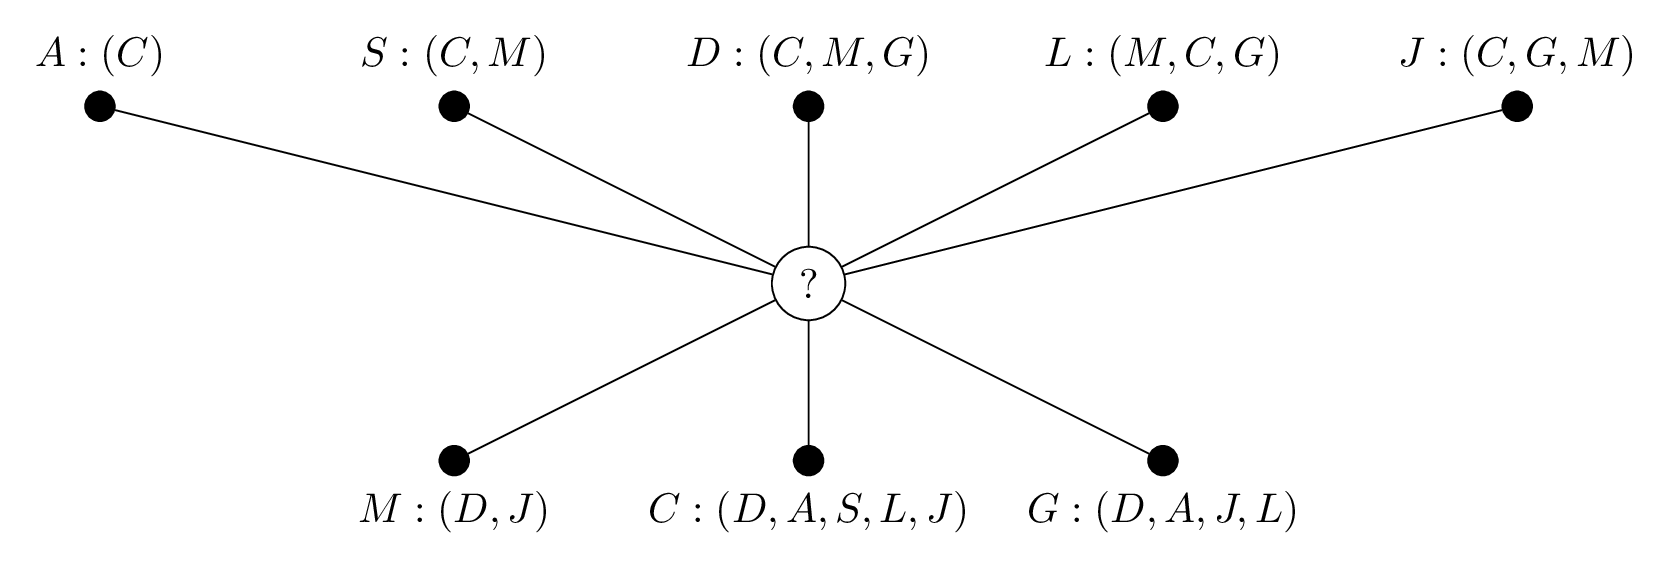
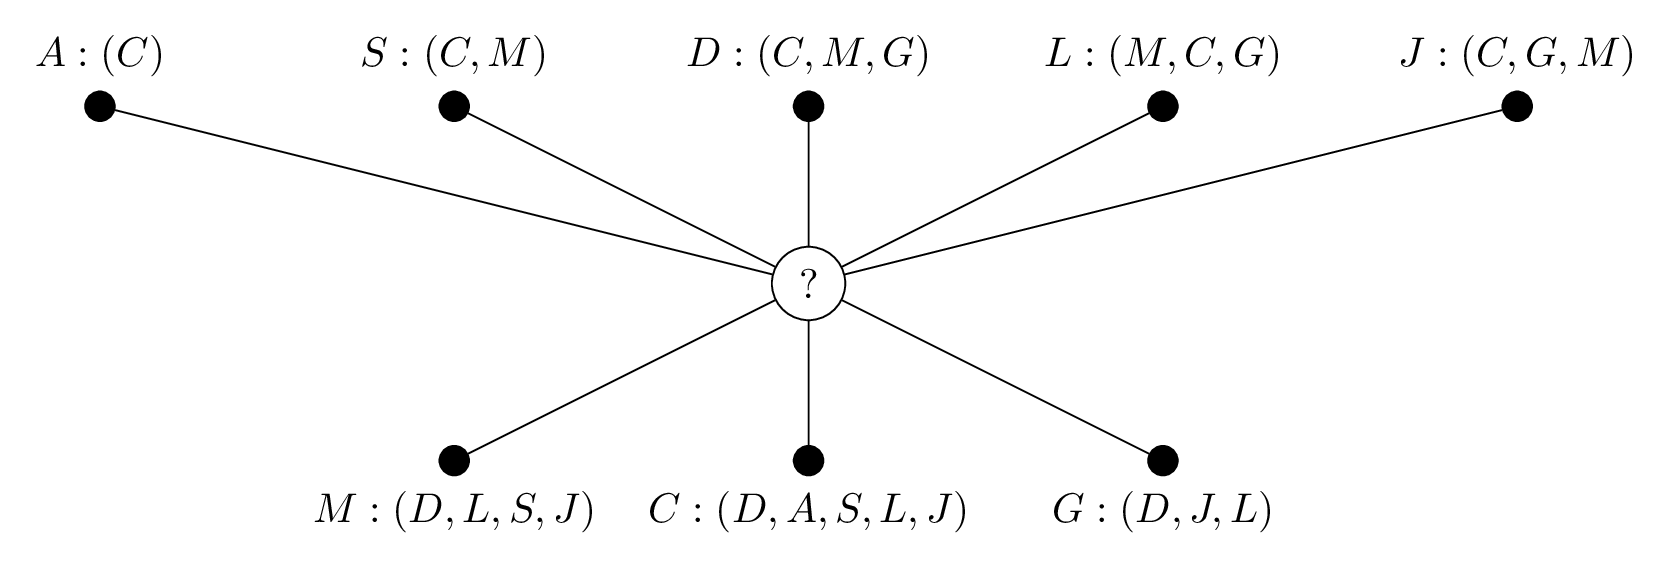
Add example tests (#72)
* Add example tests for SM.

* Add example test and fix example in README for HR.

* Update PNG file.

* Add SA examples.

* Format codebase with Black.

* Format imports with isort.

* Fix docstring for SM example test.

Changed region(s): [[0.1867, 0.8695, 0.3734, 0.9295], [0.6224, 0.8695, 0.778, 0.9295]]

diff --git a/tests/stable_marriage/test_examples.py b/tests/stable_marriage/test_examples.py
@@ -1,0 +1,64 @@
+""" A collection of example tests. """
+
+from matching import Player
+from matching.games import stable_marriage
+
+
+def test_pride_and_prejudice():
+    """ Verify that the matching found is consistent with the one adapted from
+    Jane Austen's Pride and Prejudice. Also used in
+    `docs/discussion/stable_marriage/example.rst`. """
+
+    suitors = [
+        Player(name="Bingley"),
+        Player(name="Collins"),
+        Player(name="Darcy"),
+        Player(name="Wickham"),
+    ]
+
+    reviewers = [
+        Player(name="Charlotte"),
+        Player(name="Elizabeth"),
+        Player(name="Jane"),
+        Player(name="Lydia"),
+    ]
+
+    bingley, collins, darcy, wickham = suitors
+    charlotte, elizabeth, jane, lydia = reviewers
+
+    bingley.set_prefs([jane, elizabeth, lydia, charlotte])
+    collins.set_prefs([jane, elizabeth, lydia, charlotte])
+    darcy.set_prefs([elizabeth, jane, charlotte, lydia])
+    wickham.set_prefs([lydia, jane, elizabeth, charlotte])
+
+    charlotte.set_prefs([bingley, darcy, collins, wickham])
+    elizabeth.set_prefs([wickham, darcy, bingley, collins])
+    jane.set_prefs([bingley, wickham, darcy, collins])
+    lydia.set_prefs([bingley, wickham, darcy, collins])
+
+    matching = stable_marriage(suitors, reviewers)
+    assert matching == {
+        bingley: jane,
+        collins: charlotte,
+        darcy: elizabeth,
+        wickham: lydia,
+    }
+
+
+def test_readme_example():
+    """ Verify the example used in the repo README. """
+
+    suitors = [Player(name="A"), Player(name="B"), Player(name="C")]
+    reviewers = [Player(name="D"), Player(name="E"), Player(name="F")]
+    (A, B, C), (D, E, F) = suitors, reviewers
+
+    A.set_prefs([D, E, F])
+    B.set_prefs([D, F, E])
+    C.set_prefs([F, D, E])
+
+    D.set_prefs([B, C, A])
+    E.set_prefs([A, C, B])
+    F.set_prefs([C, B, A])
+
+    matching = stable_marriage(suitors, reviewers)
+    assert matching == {A: E, B: D, C: F}

diff --git a/tests/hospital_resident/test_examples.py b/tests/hospital_resident/test_examples.py
@@ -1,0 +1,61 @@
+""" A collection of example tests. """
+
+from matching import Player as Resident
+from matching.games import HospitalResident, hospital_resident
+from matching.players import Hospital
+
+
+def test_readme_example():
+    """ Verify the example used in the repo README. """
+
+    resident_prefs = {
+        "A": ["C"],
+        "S": ["C", "M"],
+        "D": ["C", "M", "G"],
+        "J": ["C", "G", "M"],
+        "L": ["M", "C", "G"],
+    }
+
+    hospital_prefs = {
+        "M": ["D", "L", "S", "J"],
+        "C": ["D", "A", "S", "L", "J"],
+        "G": ["D", "J", "L"],
+    }
+
+    capacities = {hosp: 2 for hosp in hospital_prefs}
+
+    game = HospitalResident.create_from_dictionaries(
+        resident_prefs, hospital_prefs, capacities
+    )
+    (A, S, D, J, L), (M, C, G) = game.residents, game.hospitals
+
+    matching = hospital_resident(game.residents, game.hospitals)
+    assert matching == {M: [L, S], C: [D, A], G: [J]}
+
+
+def test_example_in_issue():
+    """ Verify that the matching found is consistent with the example in #67.
+    """
+
+    group_prefs = {
+        "Group 1": ["Intellectual property", "Privacy"],
+        "Group 2": ["Privacy", "Fairness in AI"],
+        "Group 3": ["Privacy", "Social media"],
+    }
+
+    topic_hospital_prefs = {
+        "Fairness in AI": ["Group 2"],
+        "Intellectual property": ["Group 1"],
+        "Privacy": ["Group 3", "Group 2", "Group 1"],
+        "Social media": ["Group 3"],
+    }
+
+    capacities = {t: 2 for t in topic_hospital_prefs}
+
+    game = HospitalResident.create_from_dictionaries(
+        group_prefs, topic_hospital_prefs, capacities
+    )
+    (G1, G2, G3), (F, I, P, S) = game.residents, game.hospitals
+
+    matching = hospital_resident(game.residents, game.hospitals)
+    assert matching == {I: [G1], P: [G3, G2], F: [], S: []}

diff --git a/tests/student_allocation/test_examples.py b/tests/student_allocation/test_examples.py
@@ -1,0 +1,39 @@
+""" A collection of example tests. """
+
+from matching.games import StudentAllocation, student_allocation
+
+
+def test_example_in_docs():
+    """ Verify the example used in the discussion page of SA. """
+
+    student_prefs = {
+        "A": ["X1", "X2"],
+        "B": ["Y2", "X2", "Y1"],
+        "C": ["X1", "Y1", "X2"],
+        "D": ["Y2", "X1", "Y1"],
+        "E": ["X1", "Y2", "X2", "Y1"],
+    }
+
+    supervisor_prefs = {
+        "X": ["B", "C", "A", "E", "D"],
+        "Y": ["B", "C", "E", "D"],
+    }
+
+    project_supervisors = {"X1": "X", "X2": "X", "Y1": "Y", "Y2": "Y"}
+    project_capacities = {p: 2 for p in project_supervisors}
+    supervisor_capacities = {sup: 3 for sup in supervisor_prefs}
+
+    game = StudentAllocation.create_from_dictionaries(
+        student_prefs,
+        supervisor_prefs,
+        project_supervisors,
+        project_capacities,
+        supervisor_capacities,
+    )
+    a, b, c, d, e = game.students
+    (x1, x2, y1, y2), (x, y) = game.projects, game.supervisors
+
+    matching = student_allocation(
+        game.students, game.projects, game.supervisors
+    )
+    assert matching == {x1: [c, a], x2: [], y1: [d], y2: [b, e]}

diff --git a/src/matching/games/stable_roommates.py b/src/matching/games/stable_roommates.py
@@ -57,10 +57,9 @@ class StableRoommates(Game):
             for other in others:
                 both_matched = player.matching and other.matching
                 if both_matched:
-                    prefer_each_other = (
-                        player.prefers(other, player.matching)
-                        and other.prefers(player, other.matching)
-                    )
+                    prefer_each_other = player.prefers(
+                        other, player.matching
+                    ) and other.prefers(player, other.matching)
                     if prefer_each_other:
                         blocking_pairs.append((player, other))
 
@@ -165,7 +164,7 @@ def locate_all_or_nothing_cycle(player):
             break
 
     idx = lasts.index(player)
-    cycle = zip(lasts[idx + 1:], seconds[idx:])
+    cycle = zip(lasts[idx + 1 :], seconds[idx:])
 
     return cycle
 

diff --git a/tests/stable_roommates/test_examples.py b/tests/stable_roommates/test_examples.py
@@ -27,7 +27,8 @@ def test_example_in_issue():
     in #64. """
 
     players = [
-        Player(name) for name in ("charlie", "peter", "elise", "paul", "kelly", "sam")
+        Player(name)
+        for name in ("charlie", "peter", "elise", "paul", "kelly", "sam")
     ]
     charlie, peter, elise, paul, kelly, sam = players
 
@@ -40,5 +41,10 @@ def test_example_in_issue():
 
     matching = stable_roommates(players)
     assert matching == {
-        charlie: sam, peter: kelly, elise: paul, paul: elise, kelly: peter, sam: charlie
+        charlie: sam,
+        peter: kelly,
+        elise: paul,
+        paul: elise,
+        kelly: peter,
+        sam: charlie,
     }

diff --git a/tex/hospital_resident.tex b/tex/hospital_resident.tex
@@ -20,11 +20,11 @@
 
     % Hospitals
     \node[draw, shape=circle, fill, inner sep=0, minimum size=0.25cm,
-    label=below: {\(M: (D, J)\)}] (M) at (6, -6) {};
+    label=below: {\(M: (D, L, S, J)\)}] (M) at (6, -6) {};
     \node[draw, shape=circle, fill, inner sep=0, minimum size=0.25cm,
     label=below: {\(C: (D, A, S, L, J)\)}] (C) at (12, -6) {};
     \node[draw, shape=circle, fill, inner sep=0, minimum size=0.25cm,
-    label=below: {\(G: (D, A, J, L)\)}] (G) at (18, -6) {};
+    label=below: {\(G: (D, J, L)\)}] (G) at (18, -6) {};
 
     % Question mark node
     \node[draw, shape=circle] (q) at (12, -3) {?};

diff --git a/tests/stable_roommates/test_algorithm.py b/tests/stable_roommates/test_algorithm.py
@@ -1,6 +1,11 @@
 """ Integration and unit tests for the SR algorithm. """
 
-from matching.games.stable_roommates import first_phase, locate_all_or_nothing_cycle, second_phase, stable_roommates
+from matching.games.stable_roommates import (
+    first_phase,
+    locate_all_or_nothing_cycle,
+    second_phase,
+    stable_roommates,
+)
 
 from .params import STABLE_ROOMMATES, make_players
 
@@ -60,4 +65,3 @@ def test_stable_roommates(player_names, seed):
         if other is not None:
             assert player.prefs == [other]
             assert other.matching == player
-            

diff --git a/tests/stable_roommates/params.py b/tests/stable_roommates/params.py
@@ -36,13 +36,9 @@ def make_prefs(player_names, seed):
 
 
 PLAYER_NAMES = lists(
-    sampled_from(["A", "B", "C", "D"]),
-    min_size=4,
-    max_size=4,
-    unique=True,
+    sampled_from(["A", "B", "C", "D"]), min_size=4, max_size=4, unique=True
 )
 
 STABLE_ROOMMATES = given(
-    player_names=PLAYER_NAMES,
-    seed=integers(min_value=0, max_value=2 ** 32 - 1),
+    player_names=PLAYER_NAMES, seed=integers(min_value=0, max_value=2 ** 32 - 1)
 )

diff --git a/docs/tutorials/project_allocation/data.py b/docs/tutorials/project_allocation/data.py
@@ -194,8 +194,8 @@ def main():
     print("Seed set:", SEED)
 
     supervisor_to_projects = create_supervisor_to_projects_map()
-    supervisor_to_capacity, project_to_capacity = (
-        create_player_to_capacity_maps(supervisor_to_projects)
+    supervisor_to_capacity, project_to_capacity = create_player_to_capacity_maps(
+        supervisor_to_projects
     )
     print("Supervisor and project dictionaries created...")
 

diff --git a/src/matching/players/supervisor.py b/src/matching/players/supervisor.py
@@ -51,7 +51,8 @@ class Supervisor(Hospital):
         supervisor's projects. """
 
         if student in self.prefs and not any(
-            [student in project.prefs for project in self.projects]):
+            [student in project.prefs for project in self.projects]
+        ):
             prefs = self.prefs[:]
             prefs.remove(student)
             self.prefs = prefs

diff --git a/README.rst b/README.rst
@@ -116,9 +116,9 @@ This information can be conveyed as a few dictionaries like so:
 ...     "L": ["M", "C", "G"],
 ... }
 >>> hospital_prefs = {
-...     "M": ["D", "J"],
+...     "M": ["D", "J", "L", "S"],
 ...     "C": ["D", "A", "S", "L", "J"],
-...     "G": ["D", "A", "J", "L"],
+...     "G": ["D", "J", "L"],
 ... }
 >>> capacities = {hosp: 2 for hosp in hospital_prefs}
 
